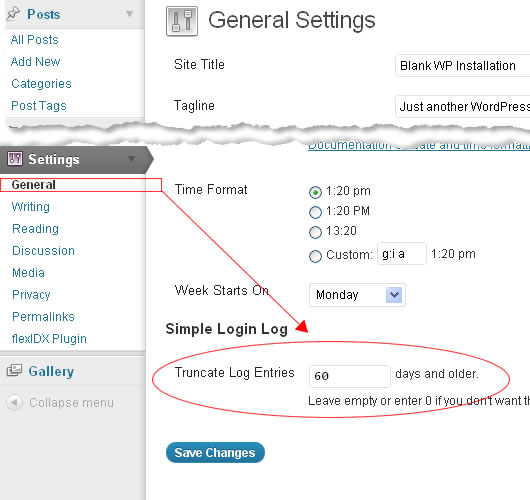
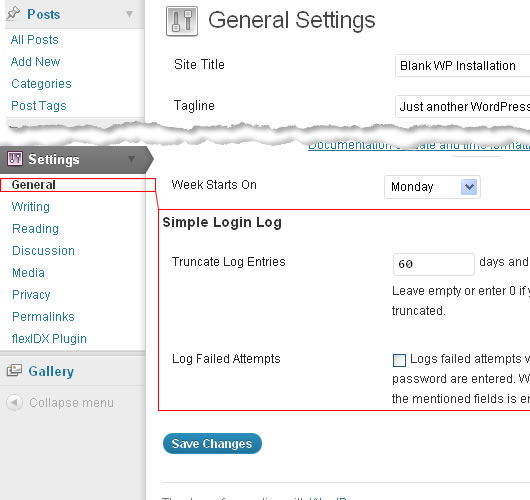
Committing version 0.3 - Added support for third-party login plugins. - Added option to log Failed Login Attempts.
git-svn-id: https://plugins.svn.wordpress.org/simple-login-log/trunk@453145 b8457f37-d9ea-0310-8a92-e5e31aec5664

diff --git a/simple-login-log.php b/simple-login-log.php
@@ -4,7 +4,7 @@
   Plugin URI: http://simplerealtytheme.com
   Description: This plugin keeps a log of WordPress user logins. Offers user filtering and export features.
   Author: Max Chirkov
-  Version: 0.2
+  Version: 0.3
   Author URI: http://SimpleRealtyTheme.com
  */
 
@@ -18,6 +18,7 @@ if( !class_exists( 'SimpleLoginLog' ) )
     private $log_duration = null; //days
     private $opt_name = 'simple_login_log';
     private $opt = false;
+    private $login_success = 1;
     
     function __construct()
     {
@@ -34,14 +35,37 @@ if( !class_exists( 'SimpleLoginLog' ) )
         add_action( 'admin_menu', array(&$this, 'sll_admin_menu') );
         add_action('admin_init', array(&$this, 'settings_api_init') );
         
-        //Action on successfull loging
-        add_action( 'wp_login', array(&$this, 'login_success') );   
+        //Init login actions
+        add_action( 'init', array(&$this, 'init_login_actions') );        
         
         //Style the log table
         add_action( 'admin_head', array(&$this, 'admin_header') );
 
         //Initialize scheduled events
         add_action( 'wp', array(&$this, 'init_scheduled_events') );        
+    }
+
+    function init_login_actions(){
+        //condition to check if "log failed attemts" option is selected
+
+        //Action on successfull login
+        add_action( 'wp_login', array(&$this, 'login_success') );   
+
+        //Action on failed login                
+        if( isset($this->opt['failed_attempts']) ){            
+            add_action( 'wp_login_failed', array(&$this, 'login_failed') );
+        }
+
+    }
+
+    function login_success( $user_login ){
+        $this->login_success = 1;
+        $this->login_action( $user_login );
+    }
+
+    function login_failed( $user_login ){
+        $this->login_success = 0;
+        $this->login_action( $user_login );
     }
 
     function init_scheduled_events()
@@ -92,6 +116,7 @@ if( !class_exists( 'SimpleLoginLog' ) )
     {
         add_settings_section('simple_login_log', 'Simple Login Log', array(&$this, 'sll_settings'), 'general');             
         add_settings_field('field_log_duration', 'Truncate Log Entries', array(&$this, 'field_log_duration'), 'general', 'simple_login_log');
+        add_settings_field('field_log_failed_attempts', 'Log Failed Attempts', array(&$this, 'field_log_failed_attempts'), 'general', 'simple_login_log');
         register_setting( 'general', 'simple_login_log' );      
     }
 
@@ -107,15 +132,20 @@ if( !class_exists( 'SimpleLoginLog' ) )
 
     function field_log_duration()
     {
-        $duration = (null !== $this->opt['log_duration']) ? $this->opt['log_duration'] : $this->log_duration;
+        $duration = (null !== $this->opt['log_duration']) ? $this->opt['log_duration'] : $this->log_duration;        
         $output = '<input type="text" value="' . $duration . '" name="simple_login_log[log_duration]" size="10" class="code" /> days and older.';
         echo $output;
         echo "<p>Leave empty or enter 0 if you don't want the log to be truncated.</p>";              
     }
 
+    function field_log_failed_attempts(){
+        $failed_attempts = ( isset($this->opt['failed_attempts']) ) ? $this->opt['failed_attempts'] : false;
+        echo '<input type="checkbox" name="simple_login_log[failed_attempts]" value="1" ' . checked( $failed_attempts, 1, false ) . ' /> Logs failed attempts where user name and password are entered. Will not log if at least one of the mentioned fields is empty.';
+    }
+
     function admin_header()
     {
-        if($_GET['page'] != 'login_log')
+        if( isset($_GET['page']) && 'login_log' != $_GET['page'] )
             return; 
 
         echo '<style type="text/css">';
@@ -125,28 +155,30 @@ if( !class_exists( 'SimpleLoginLog' ) )
         echo '.wp-list-table .column-name { width: 15%; }';
         echo '.wp-list-table .column-time { width: 15%; }';
         echo '.wp-list-table .column-ip { width: 10%; }';
+        echo '.wp-list-table .login-failed { background: #ffd5d1; }';
         echo '</style>';        
     }
 
     //Catch messages on successful login
-    function login_success($user_login){
+    function login_action($user_login){
         
         $userdata = get_user_by('login', $user_login);
 
         $uid = ($userdata->ID) ? $userdata->ID : 0;
 
         //Stop if login form wasn't submitted
-        if( !$_REQUEST['wp-submit'] )
-            return;
+        //if( !$_REQUEST['wp-submit'] )
+          //  return;
                 
+        $data['Login'] = ( 1 == $this->login_success ) ? 'Successful' : 'Failed';
         if ( isset( $_REQUEST['redirect_to'] ) ) { $data['Login Redirect'] = $_REQUEST['redirect_to']; }        
-        $data['User Agent'] = $_SERVER['HTTP_USER_AGENT'];      
+        $data['User Agent'] = $_SERVER['HTTP_USER_AGENT'];
         
         $serialized_data = serialize($data);
         
         $values = array(
             'uid'           => $uid,
-            'user_login'    => $user_login,
+            'user_login'    => $user_login,            
             'time'          => current_time('mysql'),       
             'ip'            => $_SERVER['REMOTE_ADDR'],
             'data'          => $serialized_data,
@@ -155,7 +187,7 @@ if( !class_exists( 'SimpleLoginLog' ) )
         $format = array('%d', '%s', '%s', '%s', '%s');
 
         $this->save_data($values, $format);
-    }
+    }    
 
     function save_data($values, $format){
         global $wpdb;
@@ -170,20 +202,21 @@ if( !class_exists( 'SimpleLoginLog' ) )
         $log_table = new SLL_List_Table;
         
         $limit = 20;
-        $offset = ( isset($_REQUEST['page']) ) ? $limit * $_REQUEST['page'] : 0; 
+        $offset = ( isset($_REQUEST['page']) ) ? 'OFFSET ' . $limit * $_REQUEST['page'] : 0; 
+        $where = '';
         
-        if($_GET['filter'])
+        if( isset($_GET['filter']) && '' != $_GET['filter'] )
         {
             $where = "WHERE user_login = '{$_GET['filter']}'";
         }
-        if($_GET['datefilter'])
+        if( isset($_GET['datefilter']) && '' != $_GET['datefilter'] )
         {
             $year = substr($_GET['datefilter'], 0, 4);
             $month = substr($_GET['datefilter'], -2);
             $where = "WHERE YEAR(time) = {$year} AND MONTH(time) = {$month}";
         }
 
-        $sql = "SELECT * FROM $this->table $where ORDER BY time DESC LIMIT $limit OFFSET $offset";        
+        $sql = "SELECT * FROM $this->table $where ORDER BY time DESC LIMIT $limit $offset";
         $data = $wpdb->get_results($sql, 'ARRAY_A');
                 
         $log_table->items = $data;
@@ -221,14 +254,14 @@ if( !class_exists( 'SimpleLoginLog' ) )
             return;
 
         
-
+        $option = '';
         foreach($results as $row)
         {
             //represent month in double digits            
             $timestamp = mktime(0, 0, 0, $row->month, 1, $row->year);
             $month = (strlen($row->month) == 1) ? '0' . $row->month : $row->month;
-
-            $option .= '<option value="' . $row->year . $month . '" ' . selected($row->year . $month, $_GET['datefilter'], false) . '>' . date('F', $timestamp) . ' ' . $row->year . '</option>';
+            $datefilter = ( isset($_GET['datefilter']) ) ? $_GET['datefilter'] : false;
+            $option .= '<option value="' . $row->year . $month . '" ' . selected($row->year . $month, $datefilter, false) . '>' . date('F', $timestamp) . ' ' . $row->year . '</option>';
         }
 
         $output = '<form method="get">';
@@ -312,14 +345,18 @@ class SLL_List_Table extends WP_List_Table
                 return "<a href='" . get_admin_url() . "users.php?page=login_log&filter={$item[$column_name]}' title='Filter log by this name'>{$item[$column_name]}</a>";                              
             case 'name';
                 $user_info = get_userdata($item['uid']);
-                return $user_info->first_name .  " " . $user_info->last_name;                       
+                return ( is_object($user_info) ) ? $user_info->first_name .  " " . $user_info->last_name : false;                                       
             case 'data':
-                $data = unserialize($item[$column_name]);
+            $data = unserialize($item[$column_name]);                
                 if(is_array($data))
                 {
+                    $output = '';
                     foreach($data as $k => $v)
                     {
                         $output .= $k .': '. $v .'<br />';
+                    }
+                    if( isset($data['Login']) && $data['Login'] == 'Failed' ){
+                        return '<div class="login-failed">' . $output . '</div>';    
                     }
                     return $output;
                 }               
